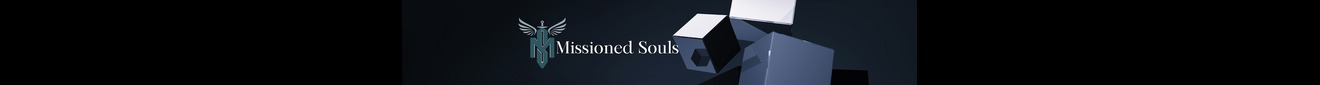
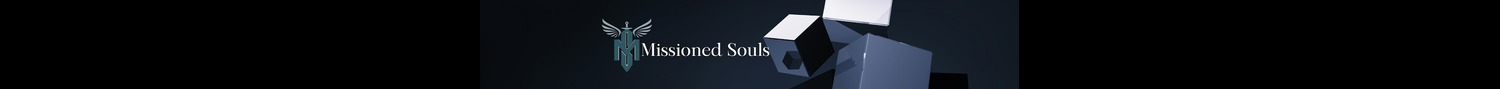
Update navbar links and enhance styles for media page

Changed region(s): [[0.3727, 0.0, 0.7144, 1.0]]

diff --git a/assets/css/styles.css b/assets/css/styles.css
@@ -42,6 +42,9 @@ h1 {
     width: 100%;
     height: 89px; /* Fixed height for the navbar */
     background-image: url('../images/Missioned_Souls_Banner.jpg');
+    background-size: 100% auto; /* Ensures the image retains original size */
+    background-repeat: no-repeat; /* Prevents the image from repeating */
+    background-position: center; /* Centers the image in the navbar */;
     z-index: 1000; /* Ensures the navbar is above other content */
 }
 
@@ -57,6 +60,15 @@ h1 {
     font-family: var(--primary-font);
 }
 
+.nav-link.active {
+    color: var(--secondary-color) !important; /* Ensures the active link color is applied */
+}
+
+.nav-link:hover,
+.nav-link:focus {
+    color: white; /* Or another color for hover/focus */
+    text-decoration: none;
+}
 
 .content-section-inner {
     max-width: 50%; /* This constrains the inner div to half the width of its parent (.col-12) */

diff --git a/media.html b/media.html
@@ -31,13 +31,13 @@
             <div class="collapse navbar-collapse" id="navbarSupportedContent">
                 <ul class="navbar-nav ms-auto">
                     <li class="nav-item">
-                        <a class="nav-link active" aria-current="page" href="index.html">Home</a>
+                        <a class="nav-link" href="index.html">Home</a>
                     </li>
                     <li class="nav-item">
                         <a class="nav-link" href="#bio">Bio</a>
                     </li>
                     <li class="nav-item">
-                        <a class="nav-link" href="#">Media</a>
+                        <a class="nav-link active" aria-current="page" href="media.html">Media</a>
                     </li>
                     <li class="nav-item">
                         <a class="nav-link" href="#">Gallery</a>

diff --git a/index.html b/index.html
@@ -37,7 +37,7 @@
                         <a class="nav-link" href="#bio">Bio</a>
                     </li>
                     <li class="nav-item">
-                        <a class="nav-link" href="#">Media</a>
+                        <a class="nav-link" href="media.html">Media</a>
                     </li>
                     <li class="nav-item">
                         <a class="nav-link" href="#">Gallery</a>
